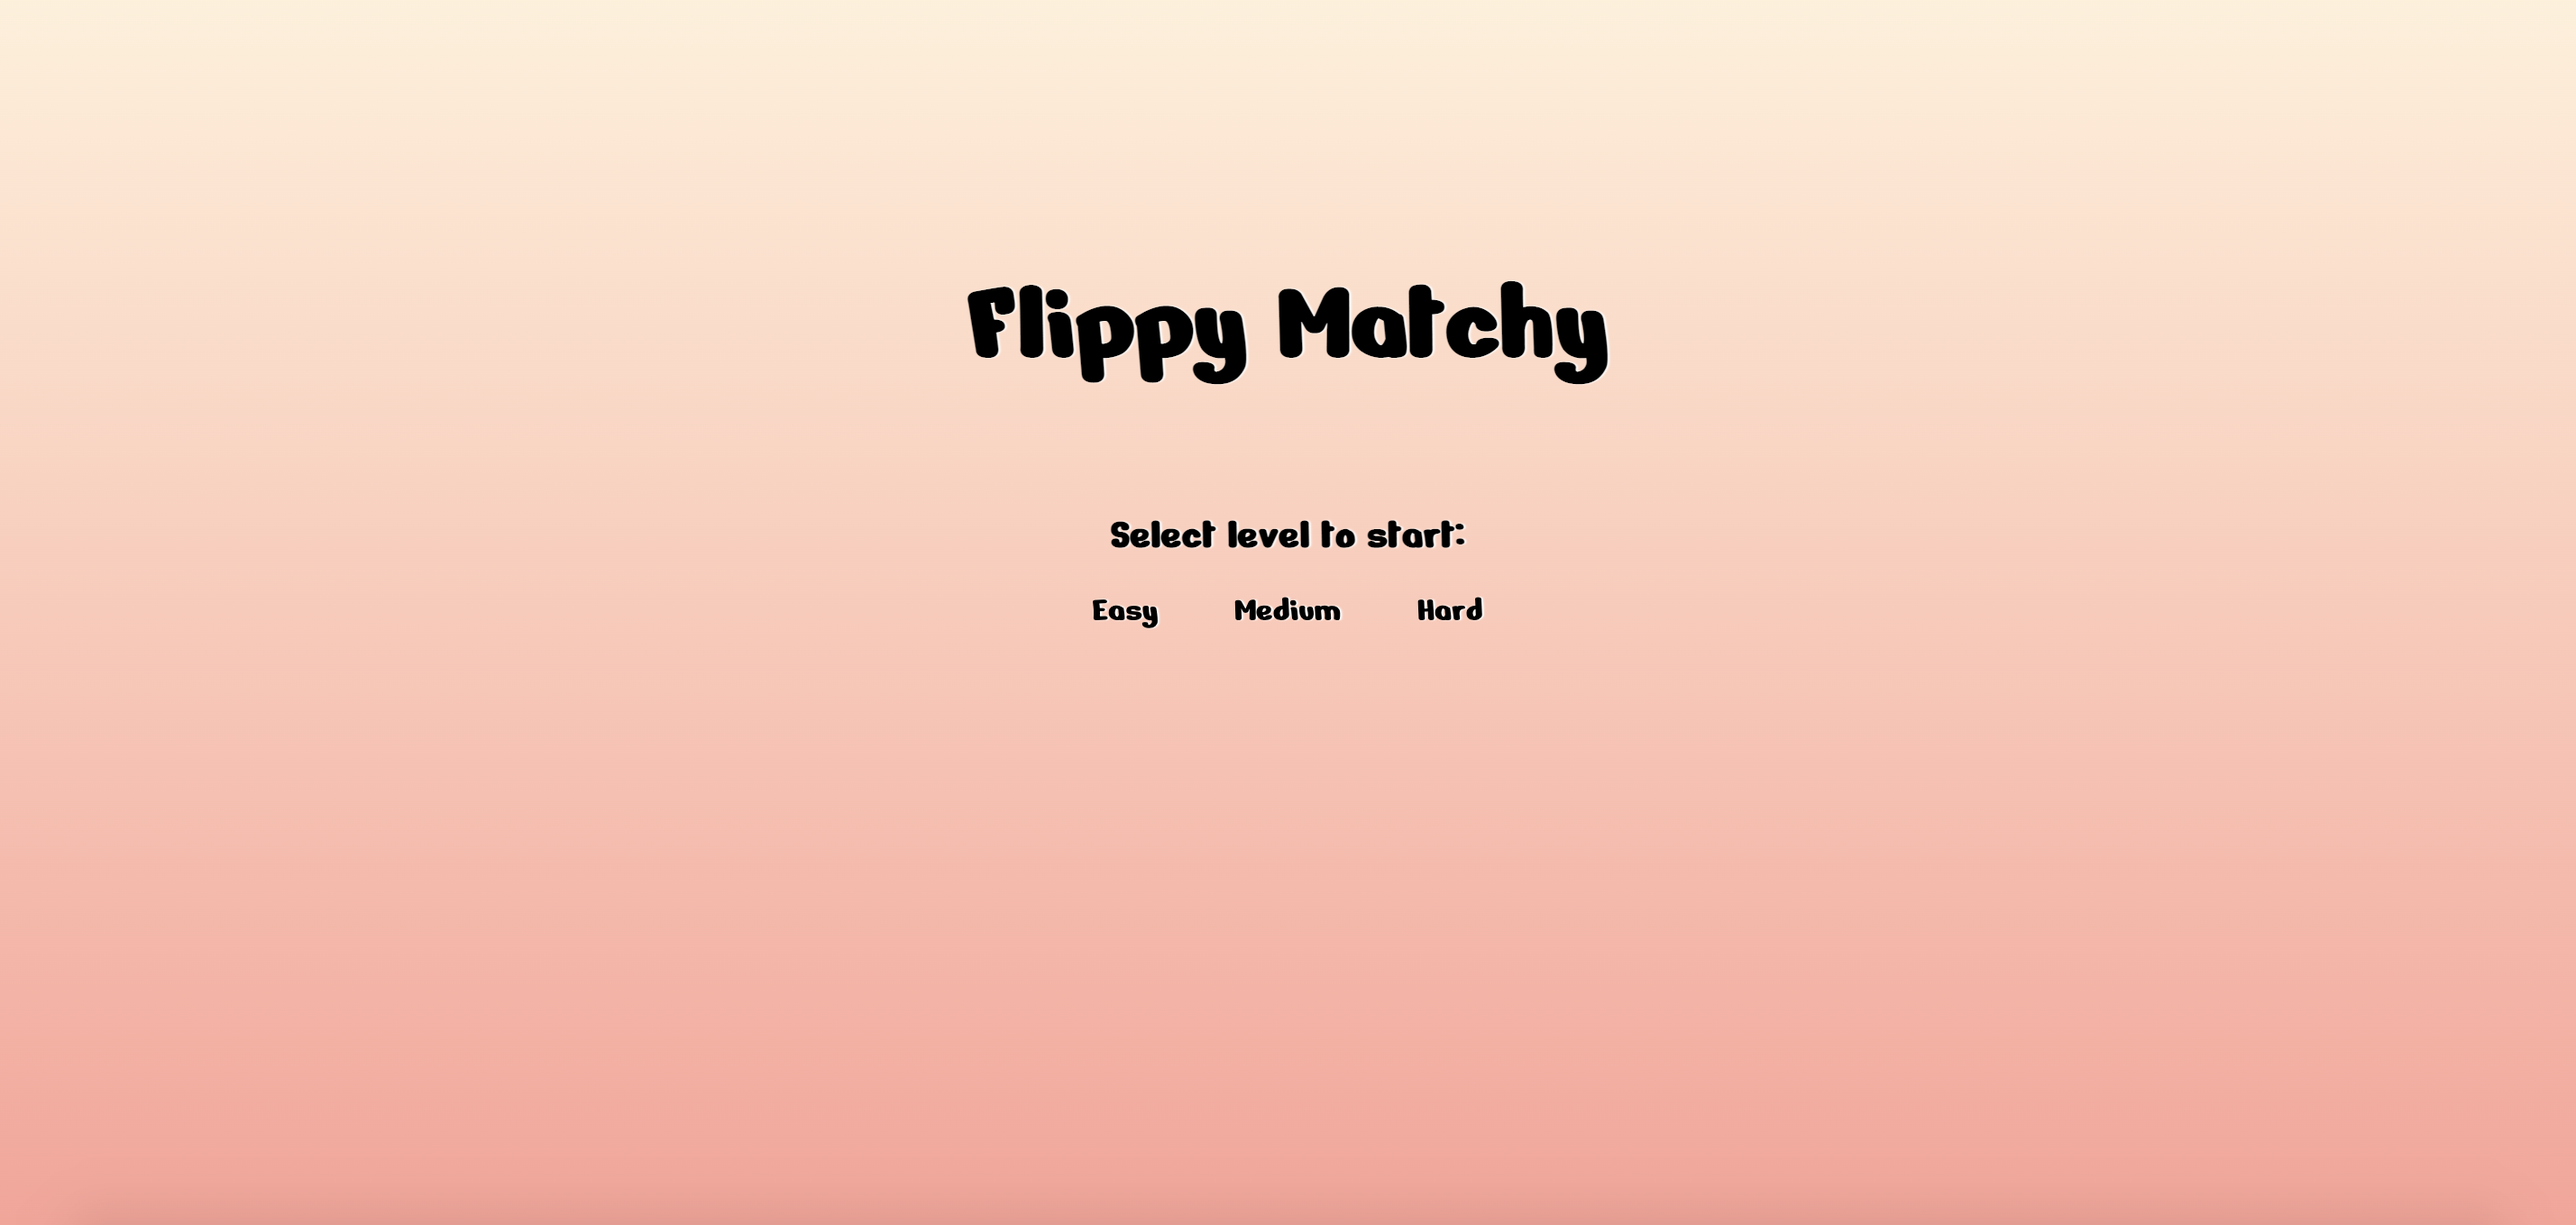
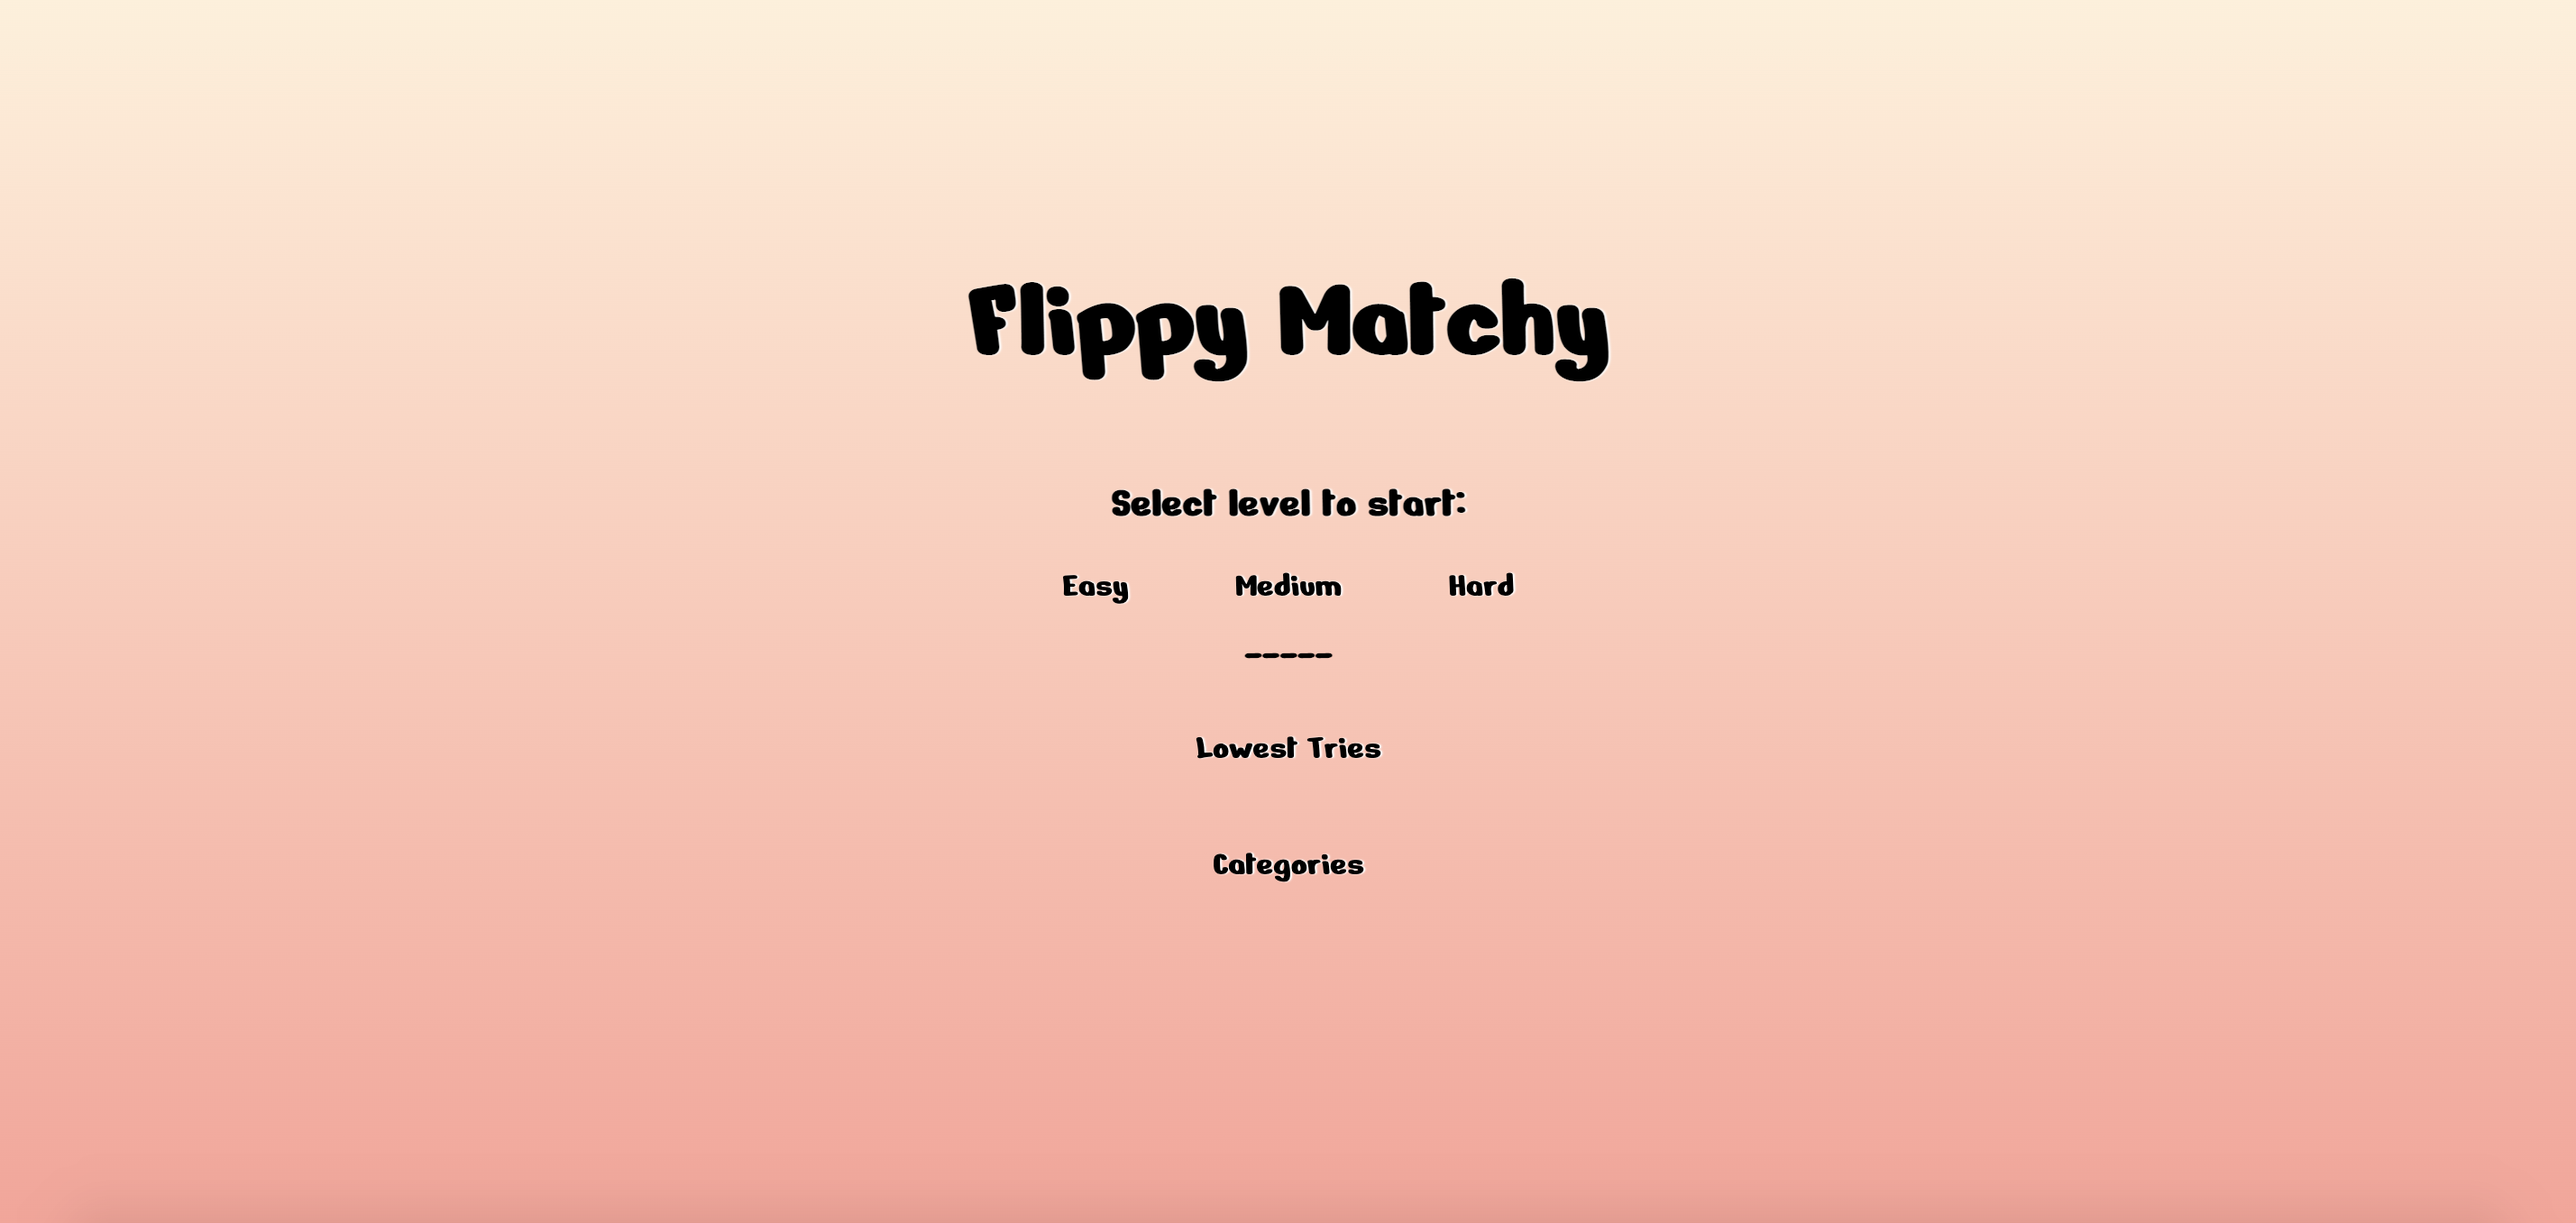
update readme

diff --git a/README.md b/README.md
@@ -6,9 +6,9 @@ Flippy Matchy is a match card game. To win you need to match each pair of identi
 
 Once a level is started, there is a brief moment where all of the cards are revealed - try to remember where the pairs are placed!
 
-There is also a "Tries" counter that keeps track of the amount of failed attempts at matching two cards - try to keep this number as low as possible!
+There is also a "Tries" counter that keeps track of the amount of failed attempts at matching two cards - try to keep this number as low as possible! There is an option to view your lowest number of tries for each level in the start menu.
 
-Finally, there is the option to view your high scores (lowest number of tries) for each level in the start screen menu.
+Finally, you can switch between emoji categories to play with - pick your favorite!
 
 _Mobile friendly_
 
@@ -29,5 +29,6 @@ HTML, CSS, Vanilla JavaScript
 
 ## Future Features
 
-- Add countdown timer (user can set having timer on / off).
-- Add selectable / unlockable categories for emojis used.
+- Countdown timer (user can set having timer on / off).
+- Limit number of unflips (the ability to flip a card back over before attempting to match with another card). Might include an increase to this amount every time a pair is matched.
+- Add an info modal in the start menu.
